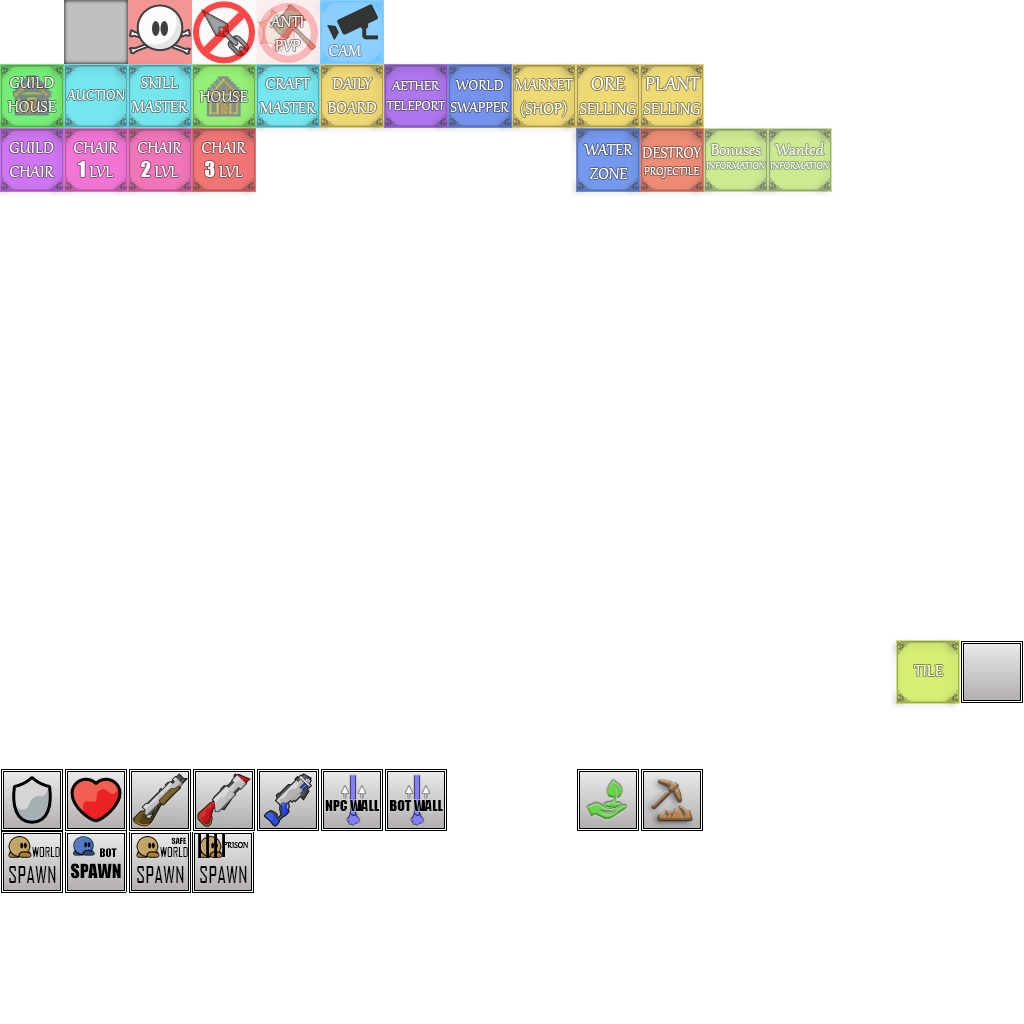
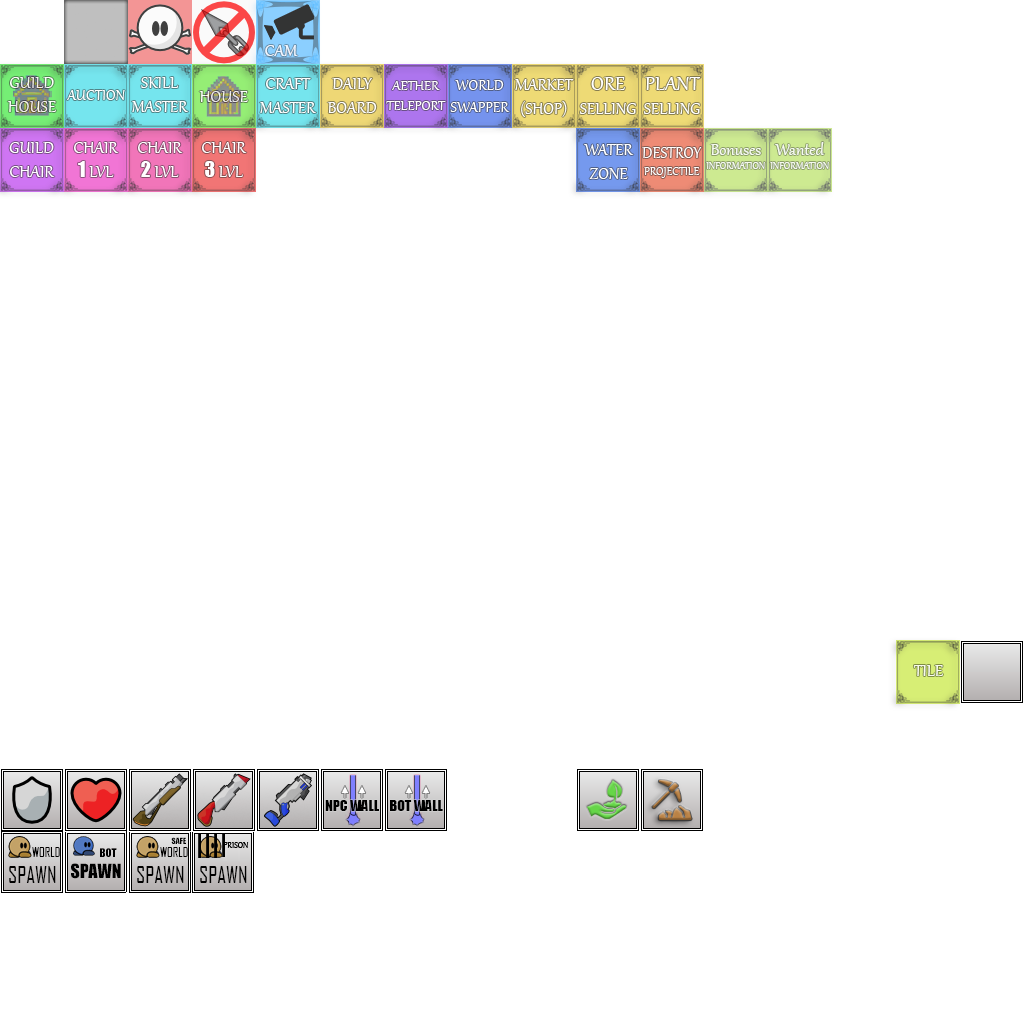
remove antipvp tile (now by zone tile)

Changed region(s): [[0.25, 0.0, 0.375, 0.0625]]

diff --git a/src/game/server/entities/character.cpp b/src/game/server/entities/character.cpp
@@ -1164,12 +1164,6 @@ void CCharacter::HandleTiles()
 	if(m_pTilesHandler->IsEnter(TILE_WATER) || m_pTilesHandler->IsExit(TILE_WATER))
 		GS()->CreateDeath(m_Core.m_Pos, m_ClientID);
 
-	// anti-pvp
-	if(m_pTilesHandler->IsEnter(TILE_ANTI_PVP))
-		GS()->Chat(m_ClientID, "You have entered the safe zone!");
-	else if(m_pTilesHandler->IsExit(TILE_ANTI_PVP))
-		GS()->Chat(m_ClientID, "You have entered the pvp zone!");
-
 	// chairs
 	if(m_pTilesHandler->IsActive(TILE_CHAIR_LV1))
 		m_pPlayer->Account()->HandleChair(1, 1);

diff --git a/src/game/collision.cpp b/src/game/collision.cpp
@@ -87,7 +87,6 @@ void CCollision::InitTiles(CTile* pTiles)
 		{ TILE_GUILD_CHAIR, COLFLAG_SAFE },
 		{ TILE_INFO_BONUSES, COLFLAG_SAFE },
 		{ TILE_INFO_WANTED, COLFLAG_SAFE },
-		{ TILE_ANTI_PVP, COLFLAG_SAFE },
 		{ TILE_WORLD_SWAP, COLFLAG_SAFE },
 		{ TILE_INVISIBLE_WALL, COLFLAG_DISALLOW_MOVE }
 	};

diff --git a/src/game/mapitems.h b/src/game/mapitems.h
@@ -49,7 +49,6 @@ enum
 	TILE_SOLID,
 	TILE_DEATH,
 	TILE_NOHOOK,
-	TILE_ANTI_PVP,
 	TILE_FIXED_CAM,
 	TILE_GUILD_HOUSE = 16,
 	TILE_AUCTION,
